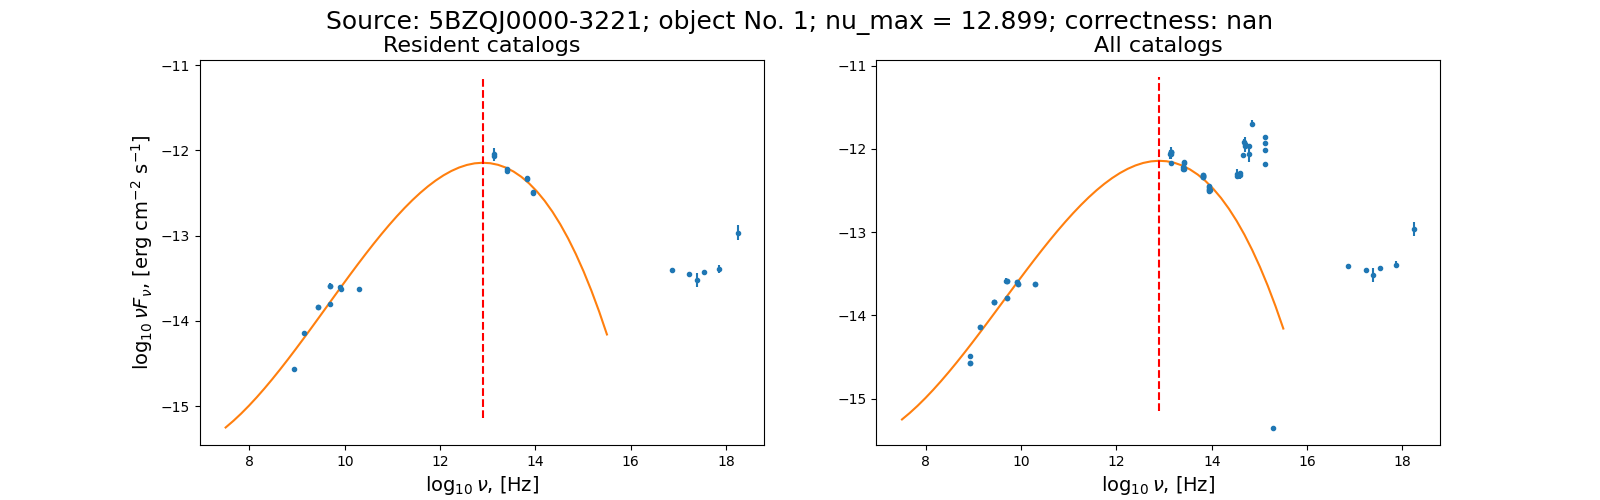
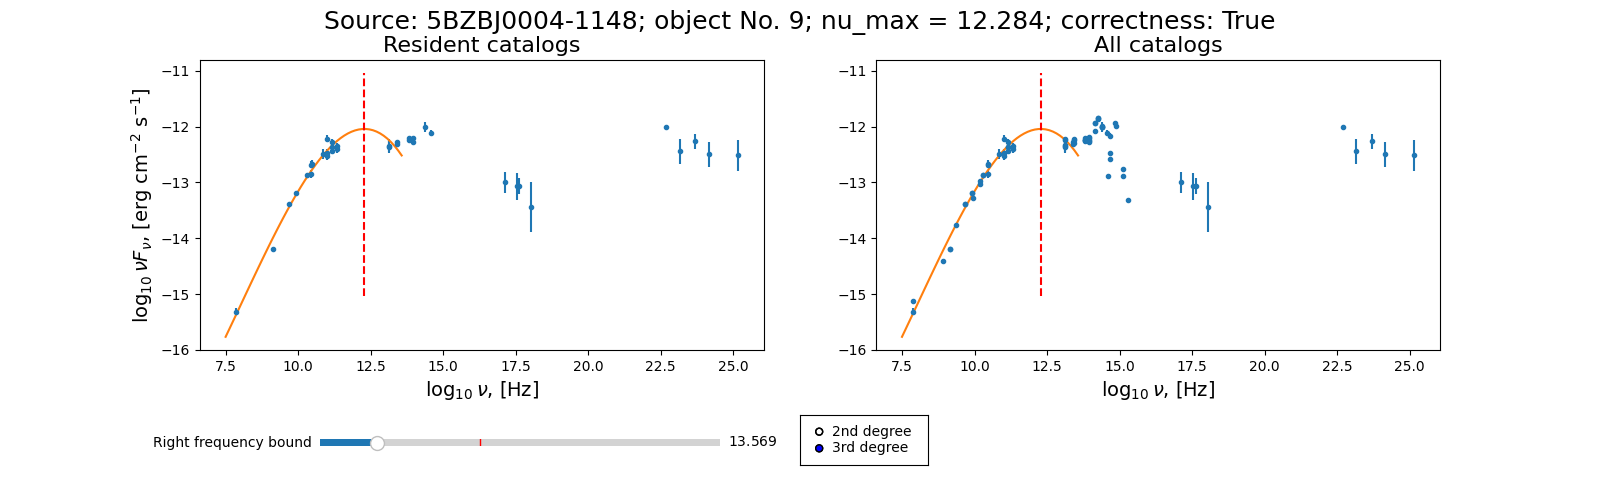
empty non-residents corrected, left-right check removed

diff --git a/sed_viewer.py b/sed_viewer.py
@@ -1,56 +1,25 @@
 import numpy as np
 import pandas as pd
 import matplotlib.pyplot as plt
-from matplotlib.widgets import Slider
+from matplotlib.widgets import Slider, RadioButtons
 import sys
 import os
 import warnings
 from scipy.optimize import minimize_scalar
 
-
 PATH = os.path.dirname(os.path.realpath(__file__))
 FILE_SEDS_RES = os.path.join(PATH, 'data/seds_residents.csv')
 FILE_SEDS_ALL = os.path.join(PATH, 'data/seds_all.csv')
+LOW_BOUND = 10  # Left frequency bound (for the optimizer only)
 
 
-def fit_poly(df, n, seds_res, seds_all, high_bound=15.5):
-    """Fitting a polynomial to an object's SED
-       n is the row number
-    """
+def fit3deg(sed_pol, high_bound):
+    "Fitting a 3rd degree polynomial"
     def f(x):
         return -(w[0] + w[1]*x + w[2]*x**2 + w[3]*x**3)
-        
-    # Constraints
-    LOW_BOUND =10
-    LOW_HIGH_BORDER = 12
     
-    source = df.iloc[n-1]['BZCAT5 Source name']
-    goodbad = df.iloc[n-1]['Correct']
-    sed_res = seds_res[seds_res['Source'] == df.iloc[n-1]['Source']]
-    sed_all = seds_all[seds_all['Source'] == df.iloc[n-1]['Source']]
-    
-    # Sometimes coordinates don't match in Dec arcseconds
-    if len(sed_res) == 0: 
-        sed_res = seds_res[seds_res['Source'].apply(
-            lambda x: x[:-1]) == df.iloc[n-1]['Source'][:-1]]
-        sed_all = seds_all[seds_all['Source'].apply(
-            lambda x: x[:-1]) == df.iloc[n-1]['Source'][:-1]]
-        
-    # Data both lower and higher LOW_HIGH_BORDER (but lower HIGH_BOUND) 
-    # should be present  
-    mask_low = sed_res['log_nu'] < LOW_HIGH_BORDER
-    mask_high = ((sed_res['log_nu']>LOW_HIGH_BORDER) 
-                 & (sed_res['log_nu']<high_bound))
-    if (len(sed_res[mask_low])<1) or (len(sed_res[mask_high])<1):
-        return np.NaN
-    
-    # Polynomial fit
-    sed_pol = sed_res[sed_res['log_nu'] < high_bound]
-    sed_pol = sed_pol.groupby('log_nu')['log_nufnu'].mean().reset_index()
     nu_max, f_max = np.NaN, np.NaN
-    while ((sed_pol.shape[0] > 3) 
-           and (sed_pol[(sed_pol['log_nu']>LOW_HIGH_BORDER)
-                        & (sed_pol['log_nu']<high_bound)].shape[0] > 0)):
+    while sed_pol.shape[0] > 3:
         x0 = np.ones(sed_pol.shape[0])
         x1 = np.array(sed_pol['log_nu'])
         x2 = np.array(sed_pol['log_nu']**2)
@@ -68,21 +37,81 @@ def fit_poly(df, n, seds_res, seds_all, high_bound=15.5):
             break 
                                
         # otherwise remove one point at right
-        sed_pol = sed_pol[:-1]  
+        sed_pol = sed_pol[:-1]
+        
+    return nu_max, f_max, w
+
+
+def fit2deg(sed_pol, high_bound):
+    "Fitting a 2nd degree polynomial"
+    def f(x):
+        return -(w[0] + w[1]*x + w[2]*x**2)
+    
+    nu_max, f_max = np.NaN, np.NaN
+    while sed_pol.shape[0] > 2:
+        x0 = np.ones(sed_pol.shape[0])
+        x1 = np.array(sed_pol['log_nu'])
+        x2 = np.array(sed_pol['log_nu']**2)
+        X = np.column_stack((x0, x1, x2))
+        y = np.array(sed_pol['log_nufnu'])
+        w = np.linalg.inv(X.T@X) @ X.T @ y            
+            
+        # if the polynomial falls at right, then exit
+        if (w[1] + 2*w[2]*high_bound) < 0: 
+            nu_max = -w[1] / (2*w[2])  
+            f_max = -f(nu_max)
+            break 
+                               
+        # otherwise remove one point at right
+        sed_pol = sed_pol[:-1]
+        
+    return nu_max, f_max, w
+
+
+def fit_poly(df, n, seds_res, seds_all, high_bound, polydeg):
+    """Fitting a polynomial to an object's SED
+       n is the row number in the table (df)
+       
+       The function prepares the data and calls fit2deg or fit3deg 
+    """
+    source = df.iloc[n-1]['BZCAT5 Source name']
+    goodbad = df.iloc[n-1]['Correct']
+    sed_res = seds_res[seds_res['Source'] == df.iloc[n-1]['Source']]
+    sed_all = seds_all[seds_all['Source'] == df.iloc[n-1]['Source']]
+    
+    # Sometimes coordinates don't match in Dec arcseconds
+    if len(sed_res) == 0: 
+        sed_res = seds_res[seds_res['Source'].apply(
+            lambda x: x[:-1]) == df.iloc[n-1]['Source'][:-1]]
+        sed_all = seds_all[seds_all['Source'].apply(
+            lambda x: x[:-1]) == df.iloc[n-1]['Source'][:-1]]
+       
+    # Polynomial fit
+    sed_pol = sed_res[sed_res['log_nu'] < high_bound]
+    sed_pol = sed_pol.groupby('log_nu')['log_nufnu'].mean().reset_index()
+    if polydeg == 3:  
+        nu_max, f_max, w = fit3deg(sed_pol, high_bound)
+    else:             
+        nu_max, f_max, w = fit2deg(sed_pol, high_bound)
     
     df.loc[n-1, 'Synch_max'] = nu_max
     df.loc[n-1, 'High_bound'] = high_bound
+    df.loc[n-1, 'Poly_degree'] = polydeg
     df.to_csv(file, index=False)   
     
     return source, nu_max, f_max, w, sed_res, sed_all, goodbad
 
 
-def plot_sed(ax, source, nu_max, f_max, w, sed_res, sed_all, goodbad, n, high_bound=15.5):
+def plot_sed(ax, source, nu_max, f_max, w, sed_res, sed_all, 
+             goodbad, n, high_bound, polydeg):
     "Plotting a SED with a fitted polynomial"
     ax[0].clear()
     ax[1].clear()
     x = np.linspace(7.5, high_bound, 50)
-    y = w[0] + w[1]*x + w[2]*x**2 +w[3]*x**3
+    if polydeg == 3:
+        y = w[0] + w[1]*x + w[2]*x**2 +w[3]*x**3
+    else:
+        y = w[0] + w[1]*x + w[2]*x**2
     ax[0].errorbar(
         sed_res['log_nu'], sed_res['log_nufnu'], yerr=sed_res['log_err'], fmt='.')
     ax[0].plot(x, y)
@@ -99,16 +128,15 @@ def plot_sed(ax, source, nu_max, f_max, w, sed_res, sed_all, goodbad, n, high_bo
         ylabel='$\\log_{10} \\nu F_{\\nu}$, [erg cm$^{-2}$ s$^{-1}$]')
     ax[1].set(xlabel='$\\log_{10} \\nu$, [Hz]')
     fig.canvas.draw()
-    return
 
 
 def add_n(val):
+    "Add/subtract the row number and check if it's within the range"
     global n
     n += val
     if n<1 or n>3561:
         n -= val
         warnings.warn('Object No. is out of range, must be [1:3561]')
-    return
 
 
 def on_press(event):
@@ -118,33 +146,58 @@ def on_press(event):
     sys.stdout.flush()
     if event.key == 'enter' or event.key == ' ':
         add_n(1)
-        update(hb_slider.val)
+        update(True)
     elif event.key == 'backspace':
         add_n(-1)
-        update(hb_slider.val)
+        update(True)
     elif event.key == 'b':
         df.loc[n-1, 'Correct'] = False
         df.to_csv(file, index=False)
-        update(hb_slider.val)
+        update(True)
     elif event.key == 'g':
         df.loc[n-1, 'Correct'] = True
         df.to_csv(file, index=False)
-        update(hb_slider.val)
+        update(True)
     elif event.key == 'c':
         df.loc[n-1, 'Correct'] = np.NaN
         df.to_csv(file, index=False)
-        update(hb_slider.val)
+        update(True)
+
+
+def get_polydeg(label):
+    "Get the polynomial degree from the button labels"
+    poly_dict = {'2nd degree': 2, '3rd degree': 3}
+    return poly_dict[label]
+
+
+def set_true_values():
+    "Setting saved (true) values in the case an object is marked as 'good' "
+    slider_val = df.iloc[n-1]['High_bound']
+    hb_slider.eventson = False
+    hb_slider.set_val(slider_val)
+    hb_slider.eventson = True
+    
+    position_dict = {2:0, 3:1}
+    polydeg = int(df.iloc[n-1]['Poly_degree'])
+    button.eventson = False
+    button.set_active(position_dict[polydeg])
+    button.eventson = True
+    
+    return slider_val, polydeg
 
 
 def update(val):
+    "Response if the slider or button have been changed by the user"
     if df.iloc[n-1]['Correct'] is True:
-        hb_slider.eventson = False
-        hb_slider.set_val(df.iloc[n-1]['High_bound'])
-        hb_slider.eventson = True
-    params = fit_poly(df, n, seds_res, seds_all, hb_slider.val)
-    plot_sed(ax, *params, n, hb_slider.val)
+        slider_val, polydeg = set_true_values()        
+    else:
+        slider_val = hb_slider.val
+        polydeg = get_polydeg(button.value_selected)
+    params = fit_poly(df, n, seds_res, seds_all, slider_val, polydeg)
+    plot_sed(ax, *params, n, hb_slider.val, polydeg)
 
-
+   
+# MAIN PROGRAM
 # Data readout
 if len(sys.argv)!=2 and len(sys.argv)!=3:
     print('\nUsage:\nsed_viewer.py file.csv row_number\n')
@@ -161,6 +214,7 @@ df = pd.read_csv(file)
 df['Synch_max'] = df.get('Synch_max', np.NaN)
 df['Correct'] = df.get('Correct', np.NaN)
 df['High_bound'] = df.get('High_bound', np.NaN)
+df['Poly_degree'] = df.get('Poly_degree', np.NaN)
 seds_res = pd.read_csv(FILE_SEDS_RES)
 seds_all = pd.read_csv(FILE_SEDS_ALL)
 
@@ -200,10 +254,10 @@ plt.rc('axes', titlesize=16)
 plt.rc('axes', labelsize=14)
 fig, ax = plt.subplots(1, 2, figsize=(16, 5))
 
-# adjust the main plot to make room for the sliders
-fig.subplots_adjust(bottom=0.25)
+# adjust the main plot to make room for the slider and button
+fig.subplots_adjust(bottom=0.3)
 
-# Make a horizontal slider to control the frequency.
+# Make a horizontal slider to control the right frequency bound
 axfreq = fig.add_axes([0.2, 0.1, 0.25, 0.03])
 hb_slider = Slider(
     ax=axfreq,
@@ -214,6 +268,14 @@ hb_slider = Slider(
 )
 hb_slider.on_changed(update)
 
+# Radio button: 2nd or 3rd degree polynomial
+#axcolor = 'lightgoldenrodyellow'
+rax = fig.add_axes([0.5, 0.07, 0.08, 0.1])#, facecolor=axcolor)
+button = RadioButtons(rax, ('2nd degree', '3rd degree'), active=1)
+button.on_clicked(update)
+
+# Connect the figure to keyboard hotkeys
 fig.canvas.mpl_connect('key_press_event', on_press)
-update(hb_slider.val)
+update(True)
+
 plt.show()

diff --git a/README.md b/README.md
@@ -4,12 +4,12 @@
 
 ## Description
 
-The BZCAT SED Viewer script displays the spectral energy distributions (SEDs) for the blazars from the [Roma-BZCAT catalog](https://heasarc.gsfc.nasa.gov/W3Browse/all/romabzcat.html) (5th edition, Massaro et al., 2015, Ap&SS, 357, 75). It also calculates the frequency of the synchrotron component maximum with a third-degree polinomial and allows a user to interactively mark it as 'good' or 'bad'. The results are saved in the original file. One can use the total list of Roma-BZCAT objects (data/BZCAT.csv provided here) or make their own subsample (the file must contain the 'BZCAT5 Source name', 'RA (J2000.0)', and 'Dec (J2000.0)' columns).
+The BZCAT SED Viewer script displays the spectral energy distributions (SEDs) for the blazars from the [Roma-BZCAT catalog](https://heasarc.gsfc.nasa.gov/W3Browse/all/romabzcat.html) (5th edition, Massaro et al., 2015, Ap&SS, 357, 75). It also calculates the frequency of the synchrotron component maximum using a third-degree or 2-degree polinomial and allows a user to interactively mark it as 'good' or 'bad'. The results are saved in the original file. One can use the total list of Roma-BZCAT objects (data/BZCAT.csv provided here) or make their own subsample (the file must contain the 'BZCAT5 Source name', 'RA (J2000.0)', and 'Dec (J2000.0)' columns). 
 
 ## Data
 
 * [List of blazars](./data/BZCAT.csv) from the [Roma-BZCAT catalog](https://heasarc.gsfc.nasa.gov/W3Browse/all/romabzcat.html)
-* Spectral energy distributions from [SED Builder](https://tools.ssdc.asi.it/SED/)
+* Spectral energy distributions for them from [SED Builder](https://tools.ssdc.asi.it/SED/) as of mid-2022. 
 
 ## Dependencies
 
@@ -23,9 +23,9 @@ python3 sed_viewer.py data/BZCAT.csv 1
 
 Here
 * data/BZCAT.csv - the provided file with BZCAT objects and their coordinates (or a file with your subsample)
-* 1 - the number of the object your want to begin with (the first object in the list corresponds to 1)
+* 1 - the index number of the object your want to begin with (the first object in the list corresponds to 1, the range is 1-3561)
 
-The script makes two charts - for the data from the SED Builder resident catalogs and for all catalogs. The 3rd degree polynomial fits the resident catalogs only.
+The script makes two charts - for the data from the SED Builder resident catalogs and for all catalogs. The polynomial fits the resident catalogs only, you can choose the 3rd (best practice) or 2nd degree. The right part of the synchrotron radiation SED is often "contaminated" by the radiation of the host galaxy. For that reason we implemented the slider which allows to tune the higher (right) frequency bound for the polynomial.
 
 Hotkeys in the graphics window:
 * Enter or Space - see the next object;
@@ -36,4 +36,6 @@ Hotkeys in the graphics window:
 * 'f' - full screen on/off;
 * 'q' - quit
 
-The marking labels are saved in the original file along with the synchrotron peak frequency and are available during the following script runnings. One can also change and clean the labels.
+Objects labelled as "good" (correctness == True) will be blocked from further fitting! To continue the fitting, clear the mark first. 
+
+The marking labels are saved in the original file along with the synchrotron peak frequency, right frequency bound, and polynomial order and are available during the following script runnings. One can also change and clean the labels.
